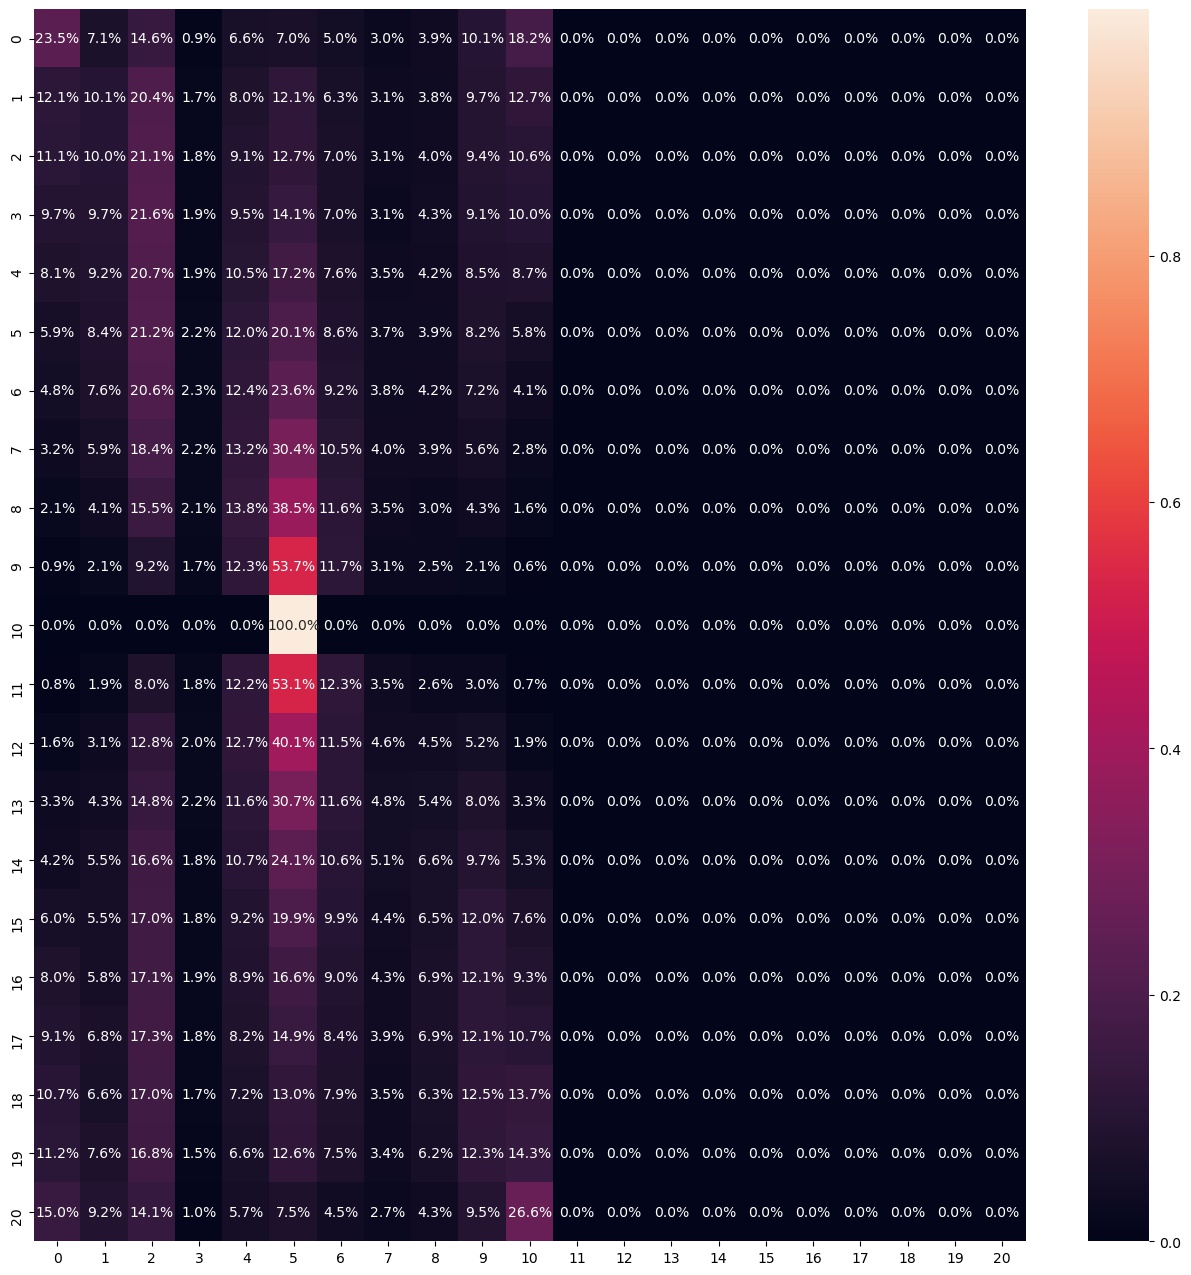
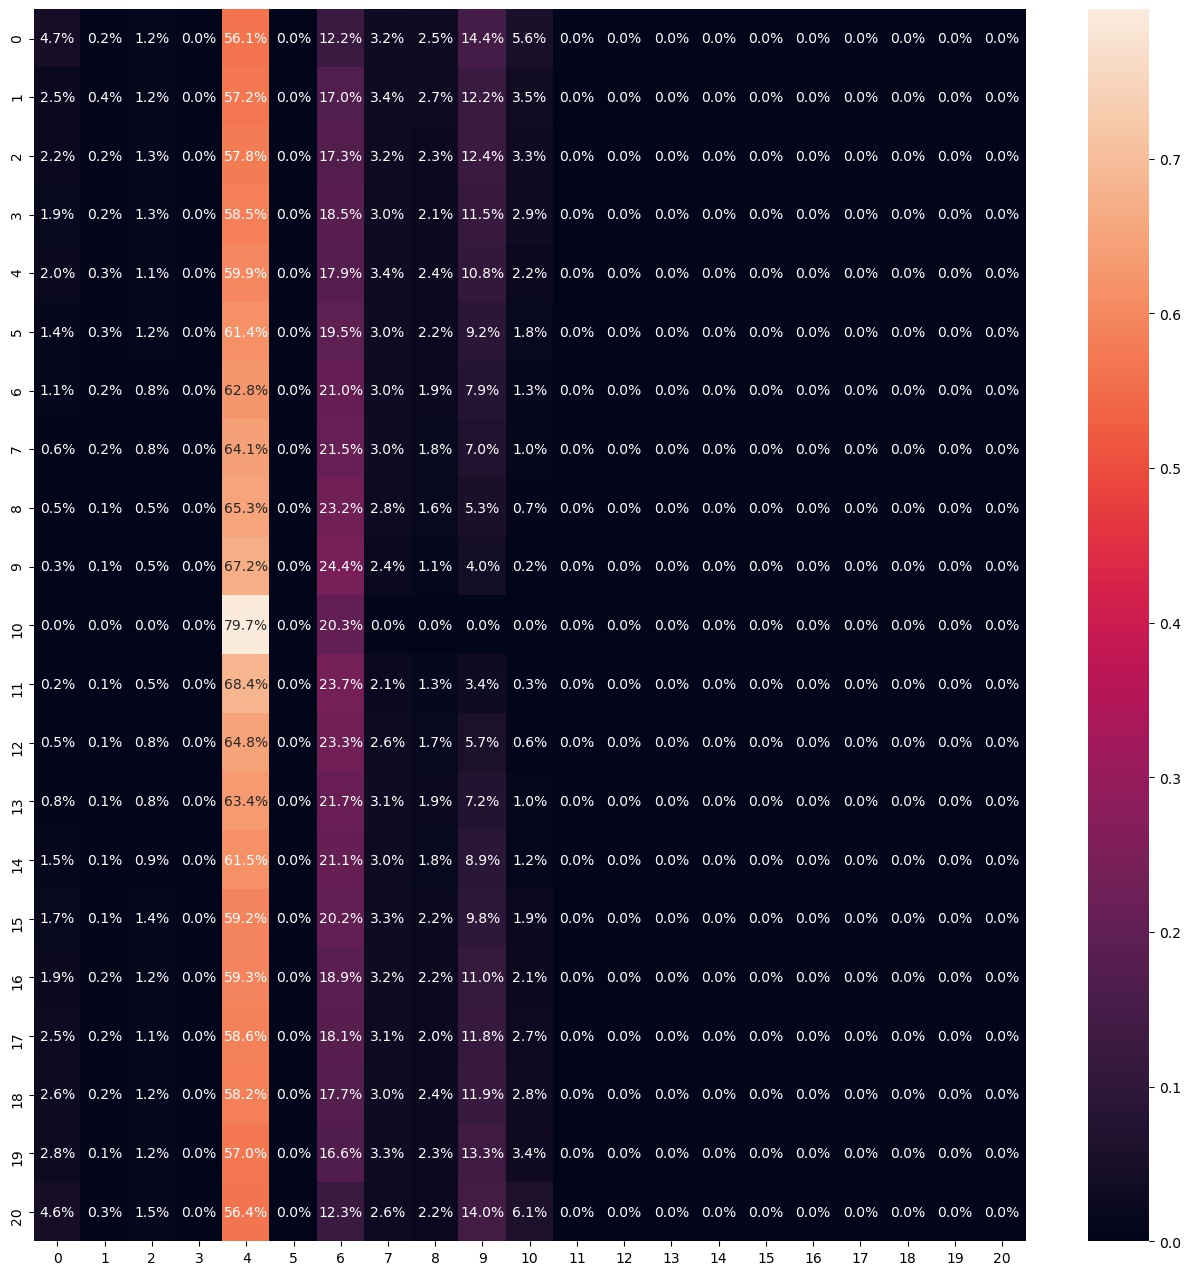
Got ddppo model to run

diff --git a/src/map/make_map.py b/src/map/make_map.py
@@ -1,4 +1,5 @@
 import gzip
+import torch.nn.functional as F
 import random
 import pathlib
 import shutil
@@ -35,13 +36,20 @@ matplotlib.rc("font", **font)
 
 
 def create_sim(scene):
-    cfg = habitat.get_config()
-    cfg.defrost()
-    cfg.SIMULATOR.SCENE = "../../data/scene_datasets/gibson/" + scene + ".glb"
-    cfg.SIMULATOR.AGENT_0.SENSORS = ["RGB_SENSOR"]
-    cfg.freeze()
+    cfg = create_cfg(scene)
     sim = habitat.sims.make_sim("Sim-v0", config=cfg.SIMULATOR)
     return sim
+
+
+def create_cfg(scene):
+    cfg = habitat.get_config("../../configs/tasks/pointnav_gibson.yaml")
+    cfg.defrost()
+    cfg.SIMULATOR.SCENE = "../../data/scene_datasets/gibson/" + scene + ".glb"
+    cfg.DATASET.SCENES_DIR = "../../data/scene_datasets/"
+    cfg.SIMULATOR.AGENT_0.SENSORS = ["RGB_SENSOR"]
+    cfg.TASK.MEASUREMENTS.append("TOP_DOWN_MAP")
+    cfg.freeze()
+    return cfg
 
 
 # Returns the length of the shortest path between two edges
@@ -199,6 +207,7 @@ def add_trajs_to_graph(
     ):
         tail_node = None
         for frame_count, frame in enumerate(trajectory):
+            print(trajectory_count)
             # we want to keep track of what the actual frame is from in the trajectory
             true_label = get_true_label(trajectory_count, frame_count, traj_ind)
             current_node = (trajectory_count_episode, true_label)
@@ -292,11 +301,12 @@ def build_graph(hold_out_percent=0.10):
         # traj_new is sparsified trajectory with the traj_visual dataset
         # traj_ind says which indices where used
         traj_new, traj_ind = sparsify_trajectories(
-            model, trajs, trajs, device, d, sim, sparsity=4
+            model, trajs, trajs, device, d, sim, sparsity=10
         )
         np.save("traj_new.npy", traj_new)
         np.save("traj_ind.npy", traj_ind)
         np.save("trajs.npy", trajs)
+        pu.db
     else:
         traj_new = np.load("traj_new.npy", allow_pickle=True)
         traj_ind = np.load("traj_ind.npy", allow_pickle=True)
@@ -304,7 +314,7 @@ def build_graph(hold_out_percent=0.10):
         visualize_traj_ind(traj_ind)
     # some trajectories will be used to build the map, some will be used to evaluate the failure of imagegoal
     traj_held_out = int(len(traj_new) * hold_out_percent)
-    eval_trajs = random.choices(list(range(len(traj_ind))), k=traj_held_out)
+    eval_trajs = random.sample(list(range(len(traj_ind))), k=traj_held_out)
     map_trajs = list(set(range(len(traj_ind))) - set(eval_trajs))
 
     traj_new_map = [traj_new[i] for i in map_trajs]
@@ -316,13 +326,14 @@ def build_graph(hold_out_percent=0.10):
     assert len(traj_new_eval) == len(traj_ind_eval)
     np.save("traj_new_eval.npy", traj_new_eval)
     np.save("traj_ind_eval.npy", traj_ind_eval)
+    np.save("eval_trajs.npy", eval_trajs)
     G = create_topological_map(
         traj_new_map,
         traj_ind_map,
         model,
         device,
         episodes=map_trajs,
-        similarity=4,
+        similarity=10,
         sim=sim,
         d=d,
         scene=ENV,
@@ -333,10 +344,74 @@ def build_graph(hold_out_percent=0.10):
     return G, traj_new_eval, traj_ind_eval
 
 
-def find_wormholes(G):
-    pass
+def find_wormholes(G, world, similarity=4):
+    # Want to go over trajectories, get their image and find the reachability
+    traj_new = np.load("traj_new.npy", allow_pickle=True)
+    traj_ind_global = np.load("traj_ind.npy", allow_pickle=True)
+    trajectories = np.load("traj_new_eval.npy", allow_pickle=True)[0:2]
+    traj_ind = np.load("traj_ind_eval.npy", allow_pickle=True)[0:2]
+    device = torch.device("cuda:0")
+    model = Siamese().to(device)
+    model.load_state_dict(torch.load("./model/saved_model.pth"))
+    model.eval()
+    test_envs = np.load("./model/test_env.npy")
+    d = get_dict(world)
+    sim = create_sim(world)
+    img_dir = "../../data/results/map/edges/"
+    shutil.rmtree(img_dir)
+    pathlib.Path(img_dir).mkdir(parents=True, exist_ok=False)
+    counter = 0
+    episodes = np.load("eval_trajs.npy", allow_pickle=True)
+    for trajectory_count, (trajectory_count_episode, trajectory) in tqdm(
+        enumerate(zip(episodes, trajectories))
+    ):
+        for frame_count, frame in enumerate(trajectory):
+            print(trajectory_count)
+            image1 = frame.unsqueeze(0).float().to(device)
+            # we want to keep track of what the actual frame is from in the trajectory
+            true_label = get_true_label(trajectory_count, frame_count, traj_ind)
+            current_node = (trajectory_count_episode, true_label)
+            for node in list(G.nodes):
+                node_traj_ind = traj_ind_global[node[0]]
+                node_ind = node_traj_ind.index(node[1])
+                # Get original node image
+                node_image = traj_new[node[0]][node_ind]
+                image2 = node_image.unsqueeze(0).float().to(device)
+                results = np.argmax(model(image1, image2).cpu().detach().numpy())
+                if results in range(5, 5 + similarity):
+                    print("Accepted")
+                    edge = (current_node, node)
+                    true_length = actual_edge_len(edge, d, sim)
+                    visualize_edge(
+                        current_node,
+                        node,
+                        world,
+                        img_dir
+                        + "edge_"
+                        + str(counter).zfill(4)
+                        + "_pred_"
+                        + str(results)
+                        + "_true_"
+                        + str(true_length)
+                        + ".png",
+                    )
+                    counter += 1
+                else:
+                    print("Passed")
+
+
+def visualize_graph(env_name, G):
+    cfg = create_cfg(env_name)
+    env = habitat.Env(config=cfg)
 
 
 if __name__ == "__main__":
-    G = build_graph(0.10)
-    wormholes = find_wormholes(G)
+    import random
+
+    random.seed(0)
+    # G, traj_new_eval, traj_ind_eval = build_graph(0.50)
+    G = nx.read_gpickle("../../data/map/map_Goodwine.gpickle")
+    test_envs = np.load("./model/test_env.npy")
+    ENV = test_envs[0]
+    # visualize_graph(ENV, G)
+    wormholes = find_wormholes(G, ENV)

diff --git a/src/rl/sim_model.py b/src/rl/sim_model.py
@@ -1,0 +1,82 @@
+import pudb
+import habitat
+from habitat_baselines.utils.env_utils import construct_envs
+from habitat_baselines.common.environments import get_env_class
+import os
+import time
+from typing import ClassVar, Dict, List
+
+import torch
+
+from habitat import Config, logger
+from habitat_baselines.common.tensorboard_utils import TensorboardWriter
+from habitat_baselines.utils.common import poll_checkpoint_folder
+from habitat_baselines.config.default import get_config
+from habitat_baselines.rl.ppo.ppo_trainer import PPOTrainer
+
+
+def get_checkpoint(config):
+    current_ckpt = None
+    prev_ckpt_ind = -1
+    while current_ckpt is None:
+        current_ckpt = poll_checkpoint_folder(config.EVAL_CKPT_PATH_DIR, prev_ckpt_ind)
+        time.sleep(0.1)  # sleep for 2 secs before polling again
+    return current_ckpt
+
+
+def get_ddppo_model(config, device):
+    checkpoint = get_checkpoint(config)
+    ckpt_dict = torch.load(checkpoint)
+    trainer = PPOTrainer(config)
+    config.defrost()
+    config.TASK_CONFIG.DATASET.SPLIT = config.EVAL.SPLIT
+    config.freeze()
+    ppo_cfg = config.RL.PPO
+    trainer.envs = construct_envs(config, get_env_class(config.ENV_NAME))
+    trainer.device = device
+    trainer._setup_actor_critic_agent(ppo_cfg)
+    trainer.agent.load_state_dict(ckpt_dict["state_dict"])
+    actor_critic = trainer.agent.actor_critic
+    test_recurrent_hidden_states = torch.zeros(
+        actor_critic.net.num_recurrent_layers,
+        config.NUM_PROCESSES,
+        ppo_cfg.hidden_size,
+        device=device,
+    )
+    return actor_critic, test_recurrent_hidden_states
+
+
+def create_sim(scene):
+    cfg = habitat.get_config("../../configs/tasks/pointnav_gibson.yaml")
+    cfg.defrost()
+    cfg.SIMULATOR.SCENE = "../../data/scene_datasets/gibson/" + scene + ".glb"
+    cfg.SIMULATOR.AGENT_0.SENSORS = ["RGB_SENSOR", "DEPTH_SENSOR"]
+    cfg.freeze()
+    sim = habitat.sims.make_sim("Sim-v0", config=cfg.SIMULATOR)
+    return sim
+
+
+def example_forward(model, hidden_state, scene, device):
+    ob = scene.reset()
+    pu.db
+    prev_action = torch.zeros(1, 1).to(device)
+    not_done_masks = torch.zeros(1, 1).to(device)
+    ob["pointgoal_with_gps_compass"] = torch.rand(1, 2).to(device)
+    ob["depth"] = torch.from_numpy(ob["depth"]).unsqueeze(0).to(device)
+    model.act(ob, hidden_state, prev_action, not_done_masks, deterministic=False)
+
+
+def main():
+    config = get_config("configs/baselines/ddppo_pointnav.yaml", [])
+    device = (
+        torch.device("cuda", config.TORCH_GPU_ID)
+        if torch.cuda.is_available()
+        else torch.device("cpu")
+    )
+    scene = create_sim("Airport")
+    model, hidden_state = get_ddppo_model(config, device)
+    example_forward(model, hidden_state, scene, device)
+
+
+if __name__ == "__main__":
+    main()

diff --git a/src/sparsifier/data_getter.py b/src/sparsifier/data_getter.py
@@ -35,9 +35,17 @@ class GibsonDataset(Dataset):
     """ Dataset collect from Habitat """
 
     def __init__(
-        self, split_type, seed, visualize=False, max_distance=10, samples=10000, ignore_0 = False
+        self,
+        split_type,
+        seed,
+        visualize=False,
+        max_distance=10,
+        samples=10000,
+        ignore_0=False,
+        debug=False,
     ):
         random.seed(seed)
+        self.debug = debug
         self.ignore_0 = ignore_0
         self.split_type = split_type
         self.max_distance = max_distance
@@ -154,7 +162,9 @@ class GibsonDataset(Dataset):
     # Don't forget map/trajectory is directed.
     def get_dataset(self, envs):
         ret = {}
-        for env in track(envs,description="[green] Collecting Large Dataset"):
+        if self.debug:
+            envs = envs[0:3]
+        for env in track(envs, description="[green] Collecting Large Dataset"):
             # Get step difference between all points to each other
             for episode in range(self.episodes):
                 paths = glob.glob(
@@ -239,7 +249,9 @@ class GibsonDataset(Dataset):
 
 
 if __name__ == "__main__":
-    dataset = GibsonDataset("train", samples=10, seed=0, max_distance = 5, ignore_0 = True)
+    dataset = GibsonDataset(
+        "train", samples=10, seed=0, max_distance=5, ignore_0=True, debug=True
+    )
     key = {}
     for batch in dataset:
         x, y = batch

diff --git a/src/map/test_data.py b/src/map/test_data.py
@@ -43,7 +43,7 @@ class GibsonMapDataset(Dataset):
     def get_image(self, path):
         image = plt.imread(path)
         if self.transform:
-            image = cv2.resize(image, (224, 224)) / 255
+            image = cv2.resize(image, (128, 128)) / 255
         return image
 
     def last_image_in_episode(self, dataset):

diff --git a/src/sparsifier/confusion_matrix.py b/src/sparsifier/confusion_matrix.py
@@ -2,7 +2,7 @@
 import matplotlib.pyplot as plt
 import seaborn as sns
 import matplotlib
-from data.results.sparsifier.best_model.model import Siamese
+from data.results.sparsifier.latest_model.model import Siamese
 from tqdm import tqdm
 from data_getter import GibsonDataset
 from torch.utils import data
